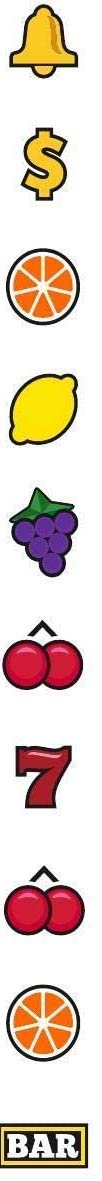
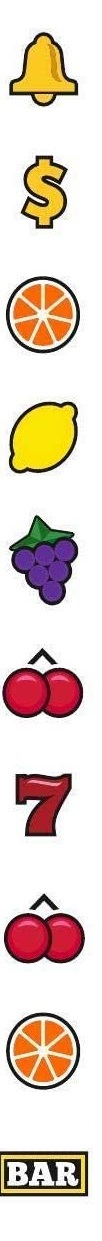
added wallet connection

Changed region(s): [[0.0, 0.5182, 0.8824, 1.0], [0.0588, 0.0, 0.7941, 0.4877]]

diff --git a/frontend/src/components/SlotContainer.tsx b/frontend/src/components/SlotContainer.tsx
@@ -2,8 +2,16 @@ import React from 'react';
 import SlotMachine from 'react-slot-machine-gen';
 import Slots from '../assets/slots.jpg';
 import Button from '@mui/material/Button';
+import Card from '@mui/material/Card';
+import CardActions from '@mui/material/CardActions';
+import CardContent from '@mui/material/CardContent';
+import Typography from '@mui/material/Typography';
+import { useEtherBalance, useEthers } from '@usedapp/core';
+import { formatEther } from '@ethersproject/units';
 
 function SlotContainer() {
+	const { activateBrowserWallet, account, deactivate } = useEthers();
+	const etherBalance = useEtherBalance(account);
 	const [play, setPlay] = React.useState(false);
 	const [spinning, setSpinning] = React.useState(false);
 	const icons: string[] = [
@@ -20,7 +28,7 @@ function SlotContainer() {
 	];
 
 	// hardcoded height of slot image
-	const height = 1181;
+	const height = 1241;
 	const total = icons.length;
 	const individualHeight = height / total;
 	const centerOffset = individualHeight / 2;
@@ -46,27 +54,67 @@ function SlotContainer() {
 			symbols,
 		},
 	];
+
 	const handleResult = (results) => {
 		setSpinning(false);
 		console.log(results.map((r) => r.title));
 	};
-	return (
-		<div className="container--slots">
+
+	const handlePlay = () => {
+		setSpinning(true);
+		setPlay(!play);
+	};
+
+	const actionButton = account ? (
+		<div className="container--actions">
 			<Button
 				className="button--slots"
 				variant="contained"
 				disabled={spinning}
-				onClick={() => {
-					setSpinning(true);
-					setPlay(!play);
-				}}
+				onClick={() => handlePlay()}
 			>
 				{spinning ? 'Good luck!' : 'Play'}
 			</Button>
+			<Button
+				className="button--deactivate"
+				variant="contained"
+				color="error"
+				onClick={() => deactivate()}
+			>
+				Disconnect
+			</Button>
+		</div>
+	) : (
+		<div className="container--connect">
+			<Button
+				onClick={() => activateBrowserWallet()}
+				variant="contained"
+				color="info"
+			>
+				Connect Wallet
+			</Button>
+		</div>
+	);
+	return (
+		<div className="container--slots">
+			<Card className="card" sx={{ minWidth: 275 }}>
+				<CardContent>
+					<Typography sx={{ fontSize: 14 }} color="text.secondary" gutterBottom>
+						{account ? 'Account balance' : 'Welcome!'}
+					</Typography>
+					<Typography sx={{ mt: 1.5 }} variant="h3" component="div">
+						{!!etherBalance && formatEther(etherBalance)}
+					</Typography>
+					<Typography sx={{ mb: 1.5 }} color="text.secondary">
+						{account && 'eth'}
+					</Typography>
+				</CardContent>
+				<CardActions>{actionButton}</CardActions>
+			</Card>
 			<SlotMachine
 				reels={reels}
 				play={play}
-				options={{ reelHeight: height, reelWidth: 100 }}
+				options={{ reelHeight: height, reelWidth: 100, reelOffset: 20 }}
 				callback={(e) => handleResult(e)}
 			/>
 		</div>

diff --git a/frontend/src/styles/App.css b/frontend/src/styles/App.css
@@ -5,6 +5,7 @@
 .reel {
 	width: 100px !important;
 	margin-left: 1.3rem;
+	height: 400px !important;
 }
 .display,
 .slots {
@@ -14,12 +15,32 @@
 }
 
 /* custom css */
-.container--slots {
+.app {
+	height: 100vh;
 	width: 100vw;
+}
+.container--slots {
+	padding: 5rem;
+	display: flex;
+	flex-direction: row;
+	justify-content: center;
+	align-items: center;
+	height: 40rem;
+}
+.card {
+	height: 16rem;
+}
+.container--actions {
+	padding-right: 1rem;
+	width: 100%;
+	display: flex;
+	flex-direction: row;
+	justify-content: space-between;
+	align-items: space-between;
+}
+.container--connect {
+	height: 4rem;
 	display: flex;
 	flex-direction: column;
-	align-items: center;
-}
-.button--slots {
-	margin: 0.5rem !important;
+	justify-content: end;
 }

diff --git a/frontend/src/App.tsx b/frontend/src/App.tsx
@@ -3,11 +3,23 @@ import SlotContainer from './components/SlotContainer';
 import CustomNavbar from './components/CustomNavbar';
 import './styles/App.css';
 
+import { Mainnet, DAppProvider, Config } from '@usedapp/core';
+import { getDefaultProvider } from 'ethers';
+
+const config: Config = {
+	readOnlyChainId: Mainnet.chainId,
+	readOnlyUrls: {
+		[Mainnet.chainId]: getDefaultProvider('mainnet'),
+	},
+};
+
 function App() {
 	return (
-		<div>
-			<CustomNavbar />
-			<SlotContainer />
+		<div className="app">
+			<DAppProvider config={config}>
+				<CustomNavbar />
+				<SlotContainer />
+			</DAppProvider>
 		</div>
 	);
 }

diff --git a/frontend/src/components/CustomNavbar.tsx b/frontend/src/components/CustomNavbar.tsx
@@ -2,11 +2,13 @@ import React from 'react';
 import AppBar from '@mui/material/AppBar';
 import Toolbar from '@mui/material/Toolbar';
 import Typography from '@mui/material/Typography';
+import Button from '@mui/material/Button';
+
 function CustomNavbar() {
 	return (
 		<AppBar position="static">
 			<Toolbar>
-				<Typography variant="h6" component="div">
+				<Typography variant="h6" component="div" sx={{ flexGrow: 1 }}>
 					CryptoSlots
 				</Typography>
 			</Toolbar>
